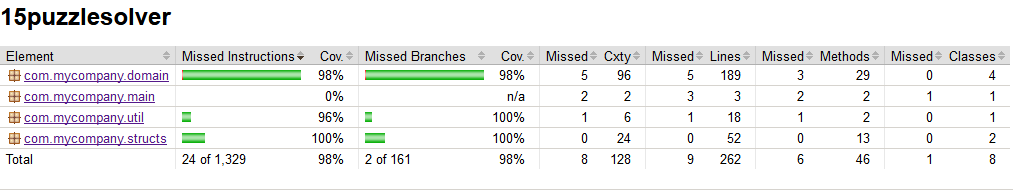
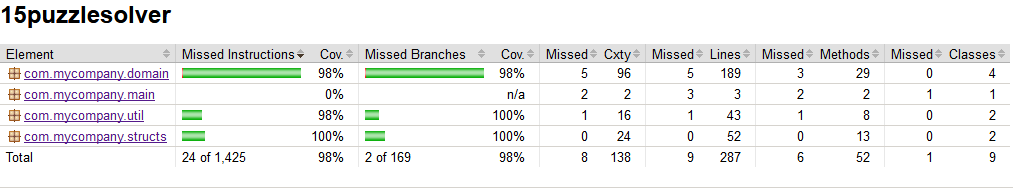
Replaced Java.util.Random with XORShift, more work on documentation

diff --git a/15puzzlesolver/15puzzlesolver/src/test/java/com/mycompany/util/XORShiftTest.java b/15puzzlesolver/15puzzlesolver/src/test/java/com/mycompany/util/XORShiftTest.java
@@ -1,0 +1,110 @@
+
+package com.mycompany.util;
+
+import org.junit.Test;
+import static org.junit.Assert.*;
+
+/**
+ * Testing class for XORShift-RNG
+ */
+public class XORShiftTest {
+
+    /**
+     * Tests that XORShifts NextInt() output average remains at least within 1e-4
+     * times ints max value
+     */
+    @Test
+    public void testXORShiftNextInt() {
+        double a = 0;
+        XORShift rand = new XORShift();
+        
+        for (int i = 0; i < 1e8; i++) {
+            a += (double)rand.nextInt() / (double)1e8;
+        }
+        
+        assertTrue(Math.abs(a) < Integer.MAX_VALUE*1e-4);
+    }
+    
+    /**
+     * Tests that XORShifts NextLong output average remains at least within 1e-4
+     * times longs max value 
+     */
+    @Test
+    public void testXORShiftNextLong() {
+        double a = 0;
+        XORShift rand = new XORShift();
+        
+        for (int i = 0; i < 1e8; i++) {
+            a += (double)rand.nextLong() / (double)1e8;
+        }
+        
+        assertTrue(Math.abs(a) < Long.MAX_VALUE*1e-4);
+    }
+    
+    /**
+     * Test that both constructor with seed works, and that there aren't any
+     * values outside of set limit, and that average is approx. at the center 
+     * of the interval, when n is a power of 2.
+     */
+    @Test
+    public void testXORShiftNextIntParam1() {
+       double a = 0;
+       XORShift rand = new XORShift(123456789L);
+       
+       int n = 256;
+       boolean error = false;
+       
+        for (int i = 0; i < 1e8; i++) {
+            int r = rand.nextInt(n);
+            
+            if (r < 0 || r >= n) {
+                error = true;
+                break;
+            }
+            
+            a += (double)r / (double) 1e8;
+        }
+        
+        assertTrue(!error && Math.abs(128 - a) < 1);
+    }
+    
+    /**
+     * Test that both constructor with seed works, and that there aren't any
+     * values outside of set limit, and that average is approx. at the center 
+     * of the interval, when n is not a power of 2.
+     */
+    @Test
+    public void testXORShiftNextIntParam2() {
+       double a = 0;
+       XORShift rand = new XORShift(987654321L);
+       
+       int n = 300;
+       boolean error = false;
+       
+        for (int i = 0; i < 1e8; i++) {
+            int r = rand.nextInt(n);
+            
+            if (r < 0 || r >= n) {
+                error = true;
+                break;
+            }
+            
+            a += (double)r / (double) 1e8;
+        }
+        
+        assertTrue(!error && Math.abs(149.5 - a) < 1);
+    }  
+    
+    /**
+     * Test that of nextInt:s parmaeter is les or equal to 0 return is -1 denoting
+     * failure
+     */
+    @Test
+    public void testXORShiftNextIntIvalidPram() {
+       XORShift rand = new XORShift(987654321L);
+       
+       int res = rand.nextInt(0);
+       
+        assertEquals(-1, res);
+    } 
+}

diff --git a/15puzzlesolver/15puzzlesolver/src/main/java/com/mycompany/util/XORShift.java b/15puzzlesolver/15puzzlesolver/src/main/java/com/mycompany/util/XORShift.java
@@ -1,0 +1,90 @@
+
+package com.mycompany.util;
+
+/**
+ * Class for XORShift-RNG
+ */
+public class XORShift {
+    private long seed;
+        
+    /**
+     * Constructor without parameter, seed set as System.nanoTime() at creation
+     */
+    public XORShift() {
+        this.seed = System.nanoTime();
+    }
+    
+    /**
+     * Constructor with user specified seed
+     * @param seed long value to be used as seed
+     */
+    public XORShift(long seed) {
+        this.seed = seed;
+    }
+    
+    /**
+     * XORShift-based random number generator, generator shifts 13 left,
+     * 3 right, 53 left
+     * @param bits length of wanted random number in bits
+     * @return long random number, shifted right until number is at maximum 
+     * representable with given number of bits
+     */
+    private long next(int bits) {
+        long x = seed;
+        x ^= (x << 13);
+        x ^= (x >>> 3);
+        x ^= (x << 53);
+        
+        seed = x;
+        
+        if (bits == 64) {
+            return x;
+        }
+        
+        return (x >>> (64 - bits));        
+    }
+    
+    /**
+     * Produces random int in approx. uniform distribution
+     * @return random int
+     */
+    public int nextInt() {
+        return (int) next(32);
+    }
+    
+    /**
+     * Produces random number between [0,n[, mostly same as similarly named 
+     * Java.util.Random-method
+     * @param n exclusive upper boundary for random number
+     * @return random int between 0 and n.
+     */
+    public int nextInt(int n) {
+        if (n <= 0) {
+            return -1;
+        }
+        
+        if ((n & -n) == n) {
+            return (int) (n * next(31) >> 31);
+        }
+        
+        int a, b;
+        while (true) {
+            a = (int) next(31);
+            b = a % n;
+            
+            if (a - b + n - 1 >= 0) {
+                break;
+            }
+        }
+        
+        return b;
+    }
+
+    /**
+     *  Simply returns random long from approx. uniform distribution.
+     * @return long random
+     */
+    public long nextLong() {
+        return next(64);
+    }
+}

diff --git a/15puzzlesolver/15puzzlesolver/src/main/java/com/mycompany/util/PuzzleGen.java b/15puzzlesolver/15puzzlesolver/src/main/java/com/mycompany/util/PuzzleGen.java
@@ -2,7 +2,6 @@
 package com.mycompany.util;
 
 import com.mycompany.domain.PuzzleState;
-import java.util.Random;
 
 /**
  * Class for generating valid n-puzzles via randomly moving empty tile
@@ -19,7 +18,7 @@ public class PuzzleGen {
         int[] board = new int[size];
         board[size - 1] = 0;
 
-        Random rand = new Random();
+        XORShift rand = new XORShift();
         
         for (int i = 0; i < size - 1; i++) {
             board[i] = i + 1;

diff --git a/15puzzlesolver/Docs/record_of_work_hours.md b/15puzzlesolver/Docs/record_of_work_hours.md
@@ -18,6 +18,8 @@ Date    | Time | Task
 27.8   | 4    | Fixed some of the noted UI-related issues in the peer review, added an secondary command line utilizing main-class for performance testing.
 29.8   | 4    | Performance testing, attempting to figure out what is going on with IDDFS-algorithm as far as speed is concerned. Structural UML-ish diagram for documentation. Added missing tests for solver. Added more commentary, fixed more of checkstyles warnings.
 30.8   | 5    | Changed the way heuristics are calculated in attemt to cut unnecessary waste of processing time, refactored how it is done several times, and apparently did exactly opposite than hoped to, causing the program to slow down quite a lot, stored attempt into experimental branch for now.
-3.9    | 6    | Continued trying to figure out the reason for slowdown caused by heuristic change, accidentaly stumbled on a missing subtraction in heuristic calculation which was the culprit, found during debuging modifications for batch testing utility when trying to find source of endless loops. Time includes aforementioned modifications.
+2.9    | 6    | Continued trying to figure out the reason for slowdown caused by heuristic change, accidentaly stumbled on a missing subtraction in heuristic calculation which was the culprit, found during debuging modifications for batch testing utility when trying to find source of endless loops. Time includes aforementioned modifications.
+3.9    | 3    | Performance testing of the algorithm, added to testing documentation. Cross-platform testing from Windows Netbeans to Linux Netbeans and mvn CLI, fixed multiple problems with pom.xml causing issues with Maven on CLI.
+4.9    | 2    | Added explanation of program file structure to implementation documentation. Did some research on replacing Java.util.random with something else.
 
-Total  | 74
+Total  | 77

diff --git a/15puzzlesolver/Docs/implementation_documentation.md b/15puzzlesolver/Docs/implementation_documentation.md
@@ -3,8 +3,59 @@ Program Structure
 
 ![Class relation diagram](https://github.com/MLumme/15PuzzleSolver/blob/master/15puzzlesolver/Docs/Diagrams/UML2.png)
 
-Search Algorithms
-=================
+domain
+------
+
+### IDAStar
+
+Class for IDA*-search algorithm for finding shortest path trough the graph of puzzle configurations.
+
+### IDDFS
+
+Class for iterative deepening depth first search for finding shortest path trough the graph of puzzle configurations.
+
+### PuzzleState
+
+Class for storing states of the puzzle, responsible of computing/updating manhattan heuristic, produzong child-states, and remembernig the configuration of its parent board to avoid looping pack to it.
+
+### Solver
+
+Acts as a bridge between UI and the chosen pathfinding algorithm, additionally is responsible of converting algorithms output stack into simple array, and for computiong execution time of the search.
+
+main
+----
+
+### Main
+
+main class, does nothing else than starting the GUI.
+
+structs
+-------
+
+### Pair
+
+A simple replacement for Javas own Pair, made to use generic types.
+
+### Stack
+
+A implementation of a LIFO stack structure for the use of both the search algorithms, built on top of an array, which is grown and shrunk as elements are added or taken from the stack, replicating operation of Javas ArrayList.
+
+ui
+--
+
+### UI
+
+Class for JavaFX-based GUI.
+
+util
+----
+
+### PuzzleGen
+
+Class for generating random puzzles of given size and number of steps, uses a sort of random walk starting from solved state of the puzzle, and then randomly selecting one of the valid children of each successive gamestate-node as the next node, using PuzzleStates child generation.
+
+Used Search Algorithms
+======================
 
 IDDFS
 -----
